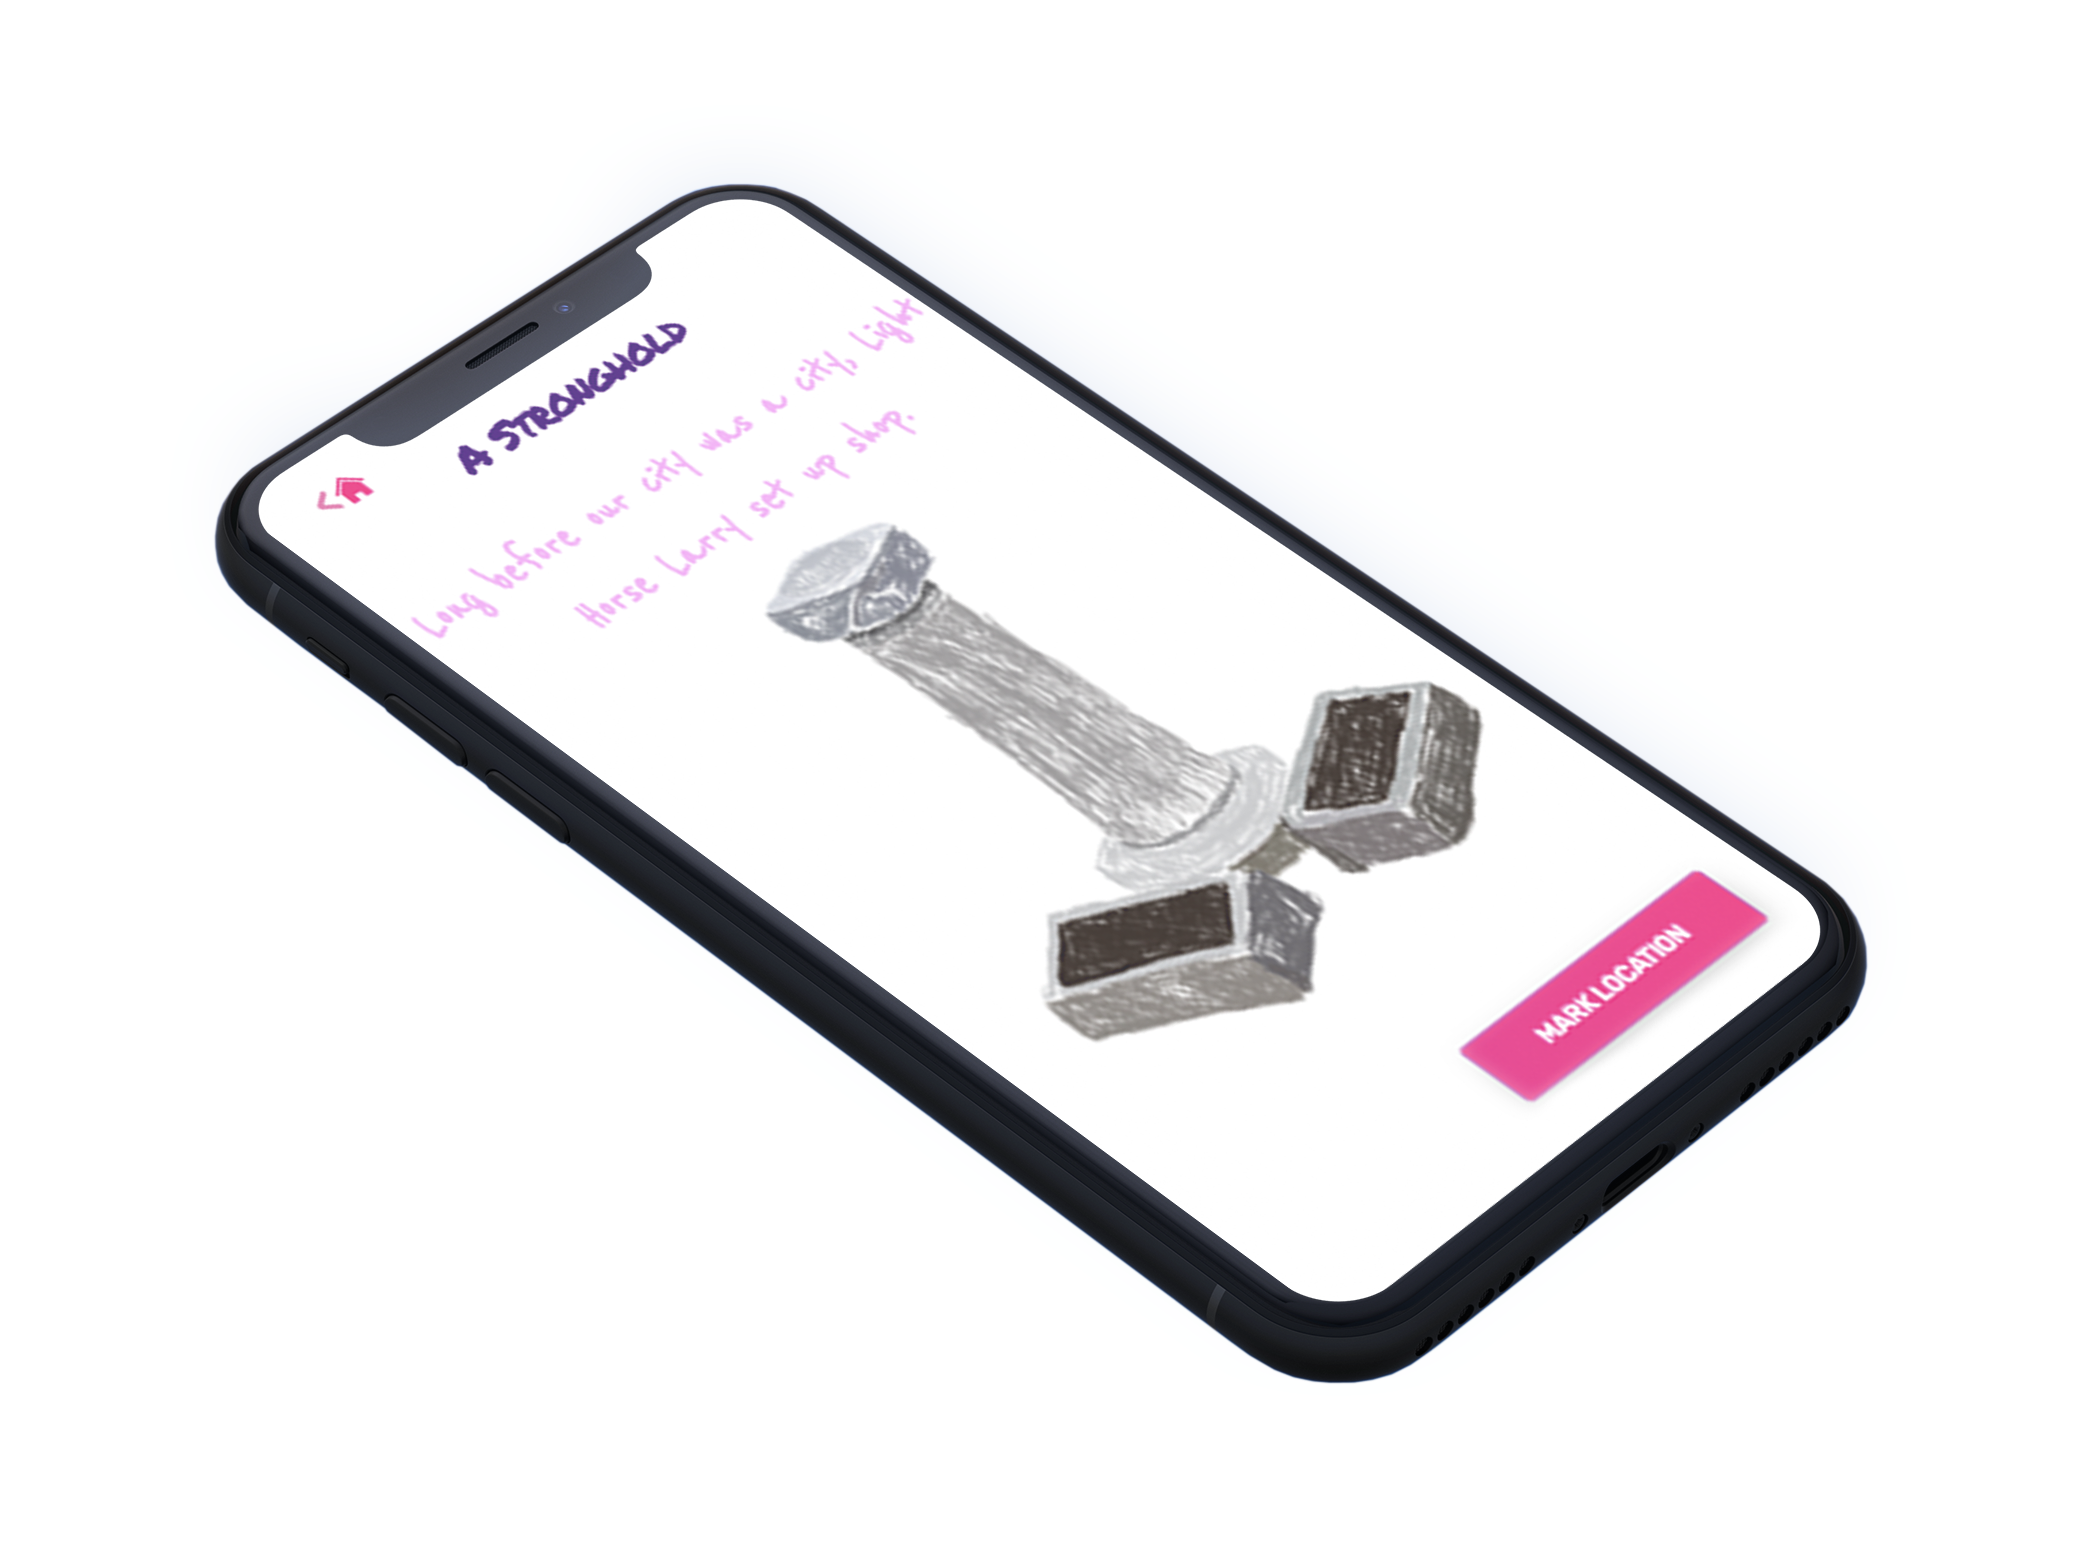
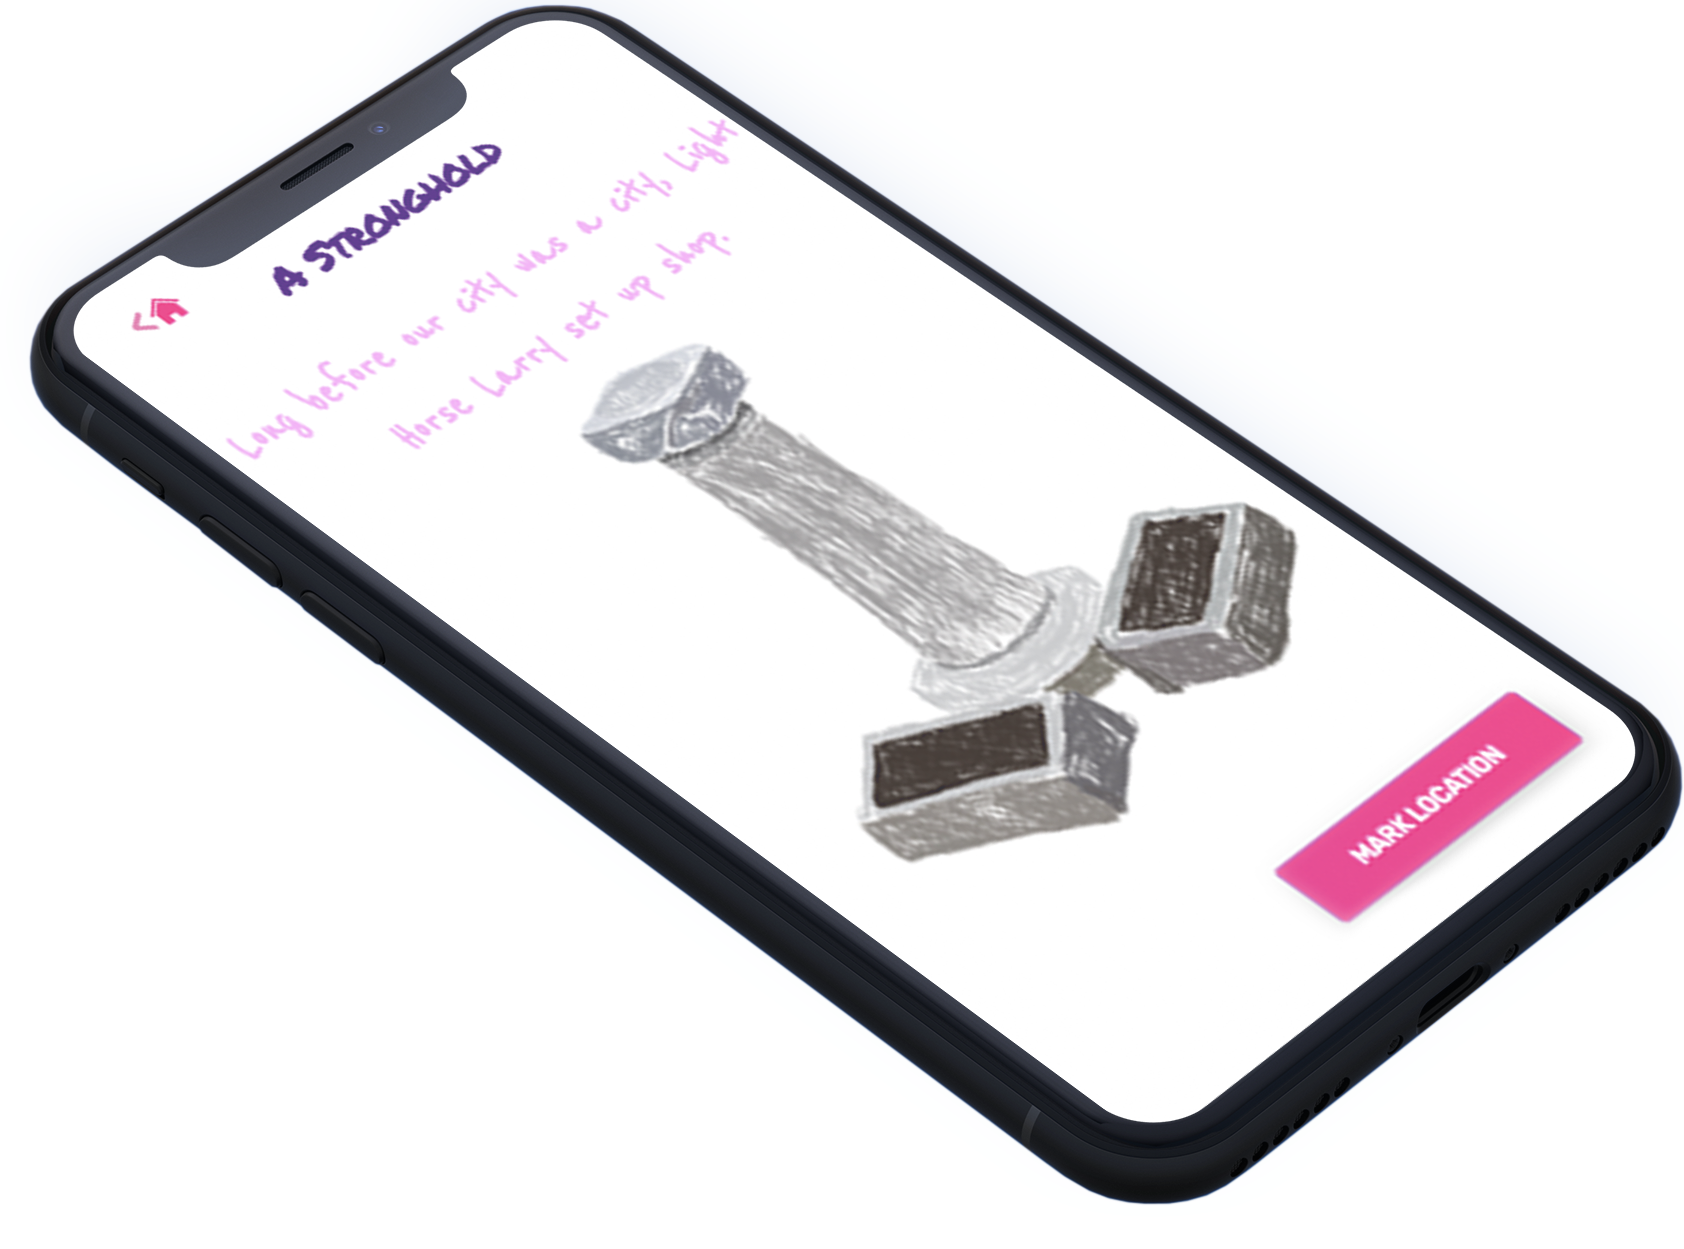
updated css homepage

Changed region(s): [[0.0, 0.0, 1.0, 0.968], [0.5867, 0.3122, 0.6176, 0.3435], [0.2779, 0.3747, 0.3088, 0.4059]]

diff --git a/controllers/PlayController.js b/controllers/PlayController.js
@@ -2,6 +2,7 @@ var mongoose = require("mongoose");
 var passport = require("passport");
 var User = require("../models/user");
 var Clue = require("../models/clue");
+var Game = require("../models/clue");
 var supportFunctions = require("./SupportFunctions");
 
 var playController = {};
@@ -12,7 +13,7 @@ playController.play = async function(req, res) {
     //get leader list
     list = await supportFunctions.getLeaders();
     totalClues = await supportFunctions.getNumberOfClues();
-    console.log(totalClues.length);
+    totalClues = totalClues.length
 
     if (req.user){
 
@@ -22,13 +23,20 @@ playController.play = async function(req, res) {
             //get the users current clue
             userClueNum = req.user.currentClue;
 
-            Clue.find({clueOrder: userClueNum}, function(err, clue){
-                if (err){res.send("the database failed find the users current clue")}//err out if database call fails
-                else{
-                    //return the corresponding clue
-                    res.render('PlayD', { user : req.user, clue: clue[0], leaderList: list});
-                }
-            });
+            //check if user has won the hunt
+            if (userClueNum > totalClues){
+                res.render("HuntComplete", { user : req.user, leaderList: list, totalClues: totalClues});
+            }
+
+            else{
+                Clue.find({clueOrder: userClueNum}, function(err, clue){
+                    if (err){res.send("the database failed find the users current clue")}//err out if database call fails
+                    else{
+                        //return the corresponding clue
+                        res.render('PlayD', { user : req.user, clue: clue[0], leaderList: list});
+                    }
+                });
+            }
         }
         //if user is not verified let them know to do it
         else{

diff --git a/controllers/AuthController.js b/controllers/AuthController.js
@@ -116,7 +116,7 @@ userController.doRegister = async function(req, res) {
 
             //send welcome email
             const mailOptions = {
-                from: "TheHunt <welcome@thehunt.com>",
+                from: "TheHunt <welcome@charlestontreasurehunt.com>",
                 to: req.body.email,
                 subject: "You Are In - Verify Account",
                 html: "",
@@ -146,7 +146,7 @@ userController.reVerify = function (req, res){
     if (req.user.verified === false){
         //send welcome email
         const mailOptions = {
-            from: "TheHunt <welcome@thehunt.com>",
+            from: "TheHunt <welcome@charlestontreasurehunt.com>",
             to: req.user.email,
             subject: "You Are In - Verify Account",
             html: "",
@@ -223,7 +223,7 @@ userController.postForgotPassword = function(req, res) {
                     
                         //send email with link to user
                         const mailOptions = {
-                            from: "TheHunt <welcome@thehunt.com>",
+                            from: "TheHunt <welcome@charlestontreasurehunt.com>",
                             to: user.email,
                             subject: "TheHunt: Password Reset",
                             html: "Password Reset",

diff --git a/controllers/PasswordResetController.js b/controllers/PasswordResetController.js
@@ -44,7 +44,7 @@ passResetController.postForgotPassword = function(req, res) {
                     
                         //send email with link to user
                         const mailOptions = {
-                            from: "TheHunt <welcome@thehunt.com>",
+                            from: "TheHunt <welcome@charlestontreasurehunt.com>",
                             to: user.email,
                             subject: "TheHunt: Password Reset",
                             html: "Password Reset",

diff --git a/public/stylesheets/styleD.css b/public/stylesheets/styleD.css
@@ -382,12 +382,14 @@ header {
 
 .perspective-phone {
     position: relative;
+    max-width: 600px;
     z-index: -1;
 }
 
 @media (min-width:992px) {
     .perspective-phone {
-        margin-top: -150px;
+        margin-top: -250px;
+        margin-bottom: -50px;
     }
 }
 
@@ -716,4 +718,8 @@ font-family: 'Reenie Beanie', cursive;
 
 .fontGrey{
     color: lightgray;
+}
+
+.whiteBackground{
+    background-color: rgba(255, 255, 255, 0.75);
 }

diff --git a/models/game.js b/models/game.js
@@ -1,0 +1,9 @@
+var mongoose = require('mongoose');
+var Schema = mongoose.Schema;
+
+var gameSchema = new Schema({
+    finishedPlayers: [],
+    pointsMarked: []
+});
+
+module.exports = mongoose.model('Game', gameSchema);
